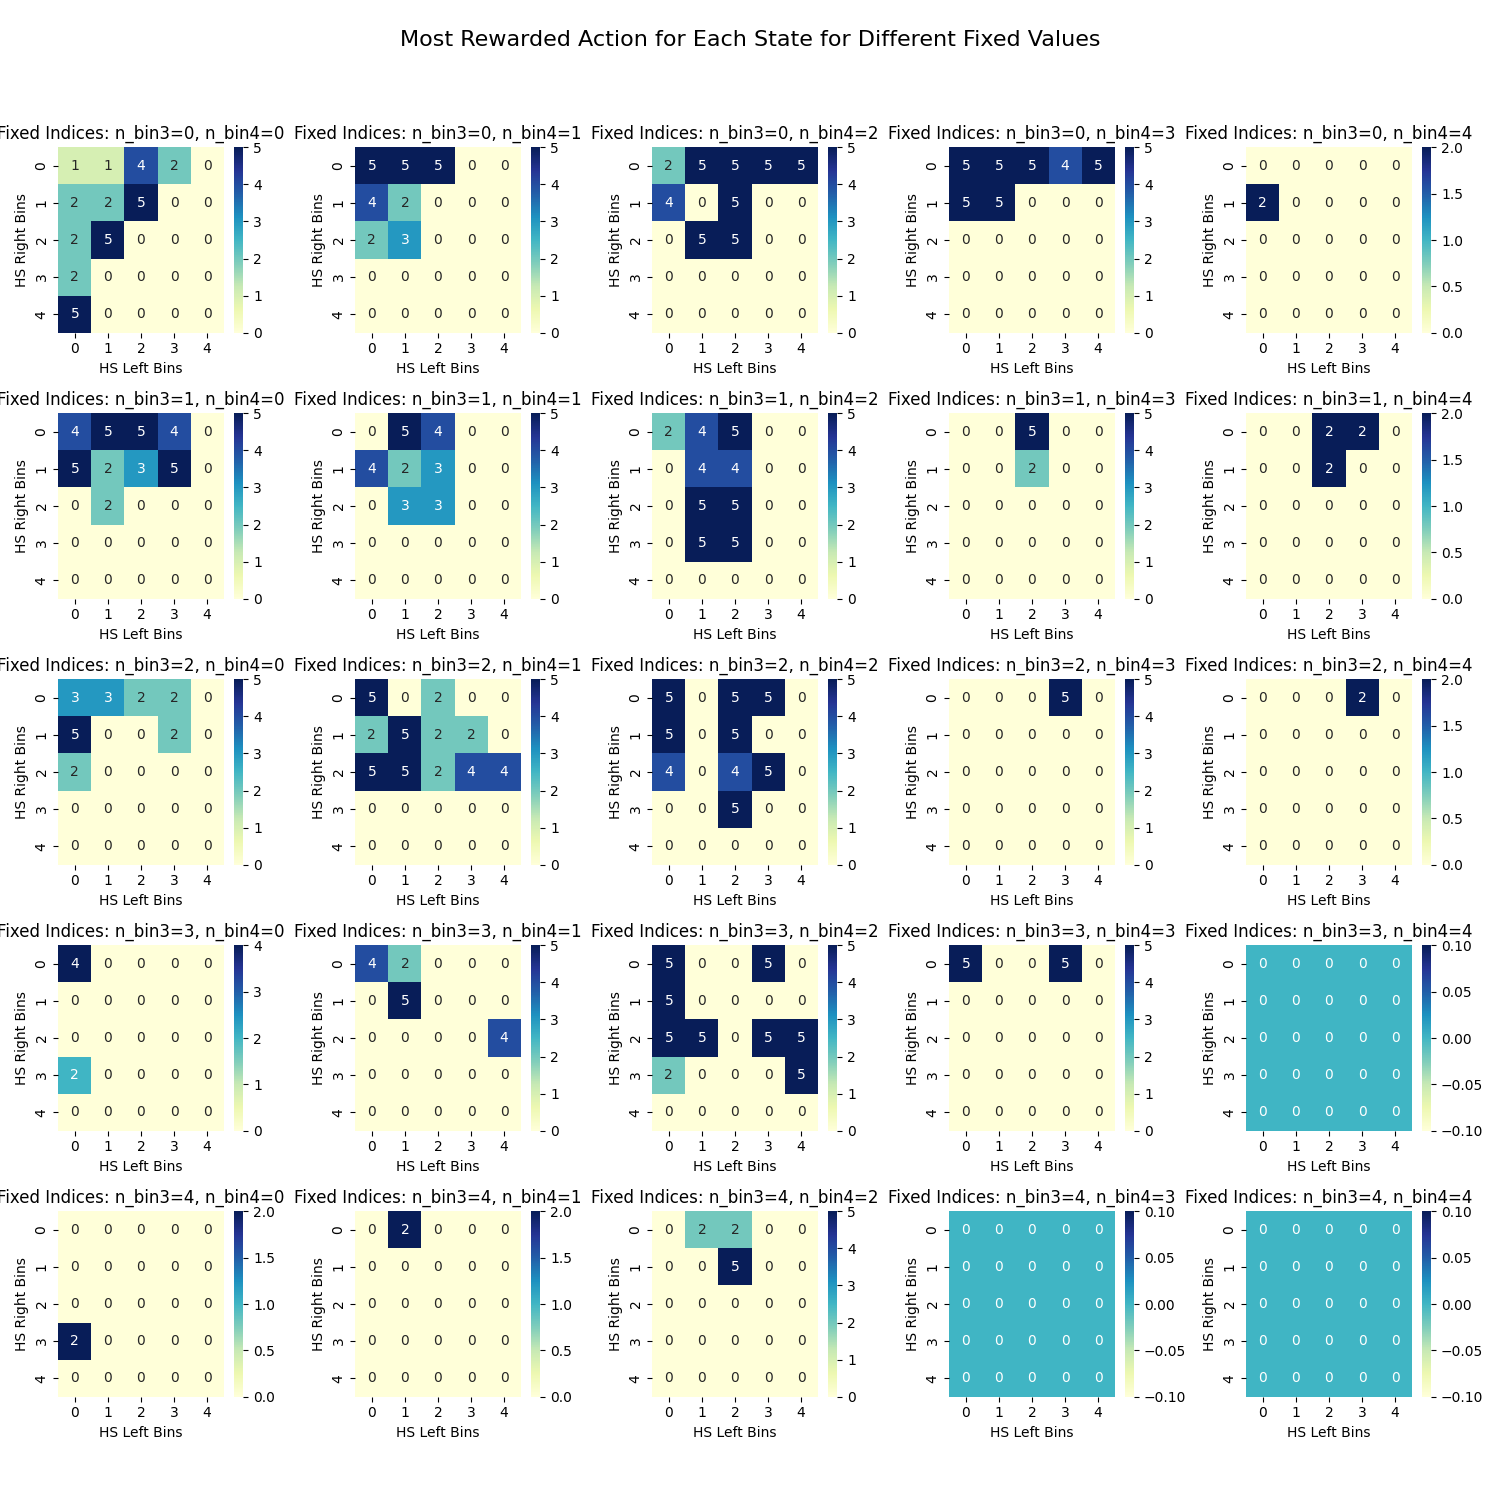
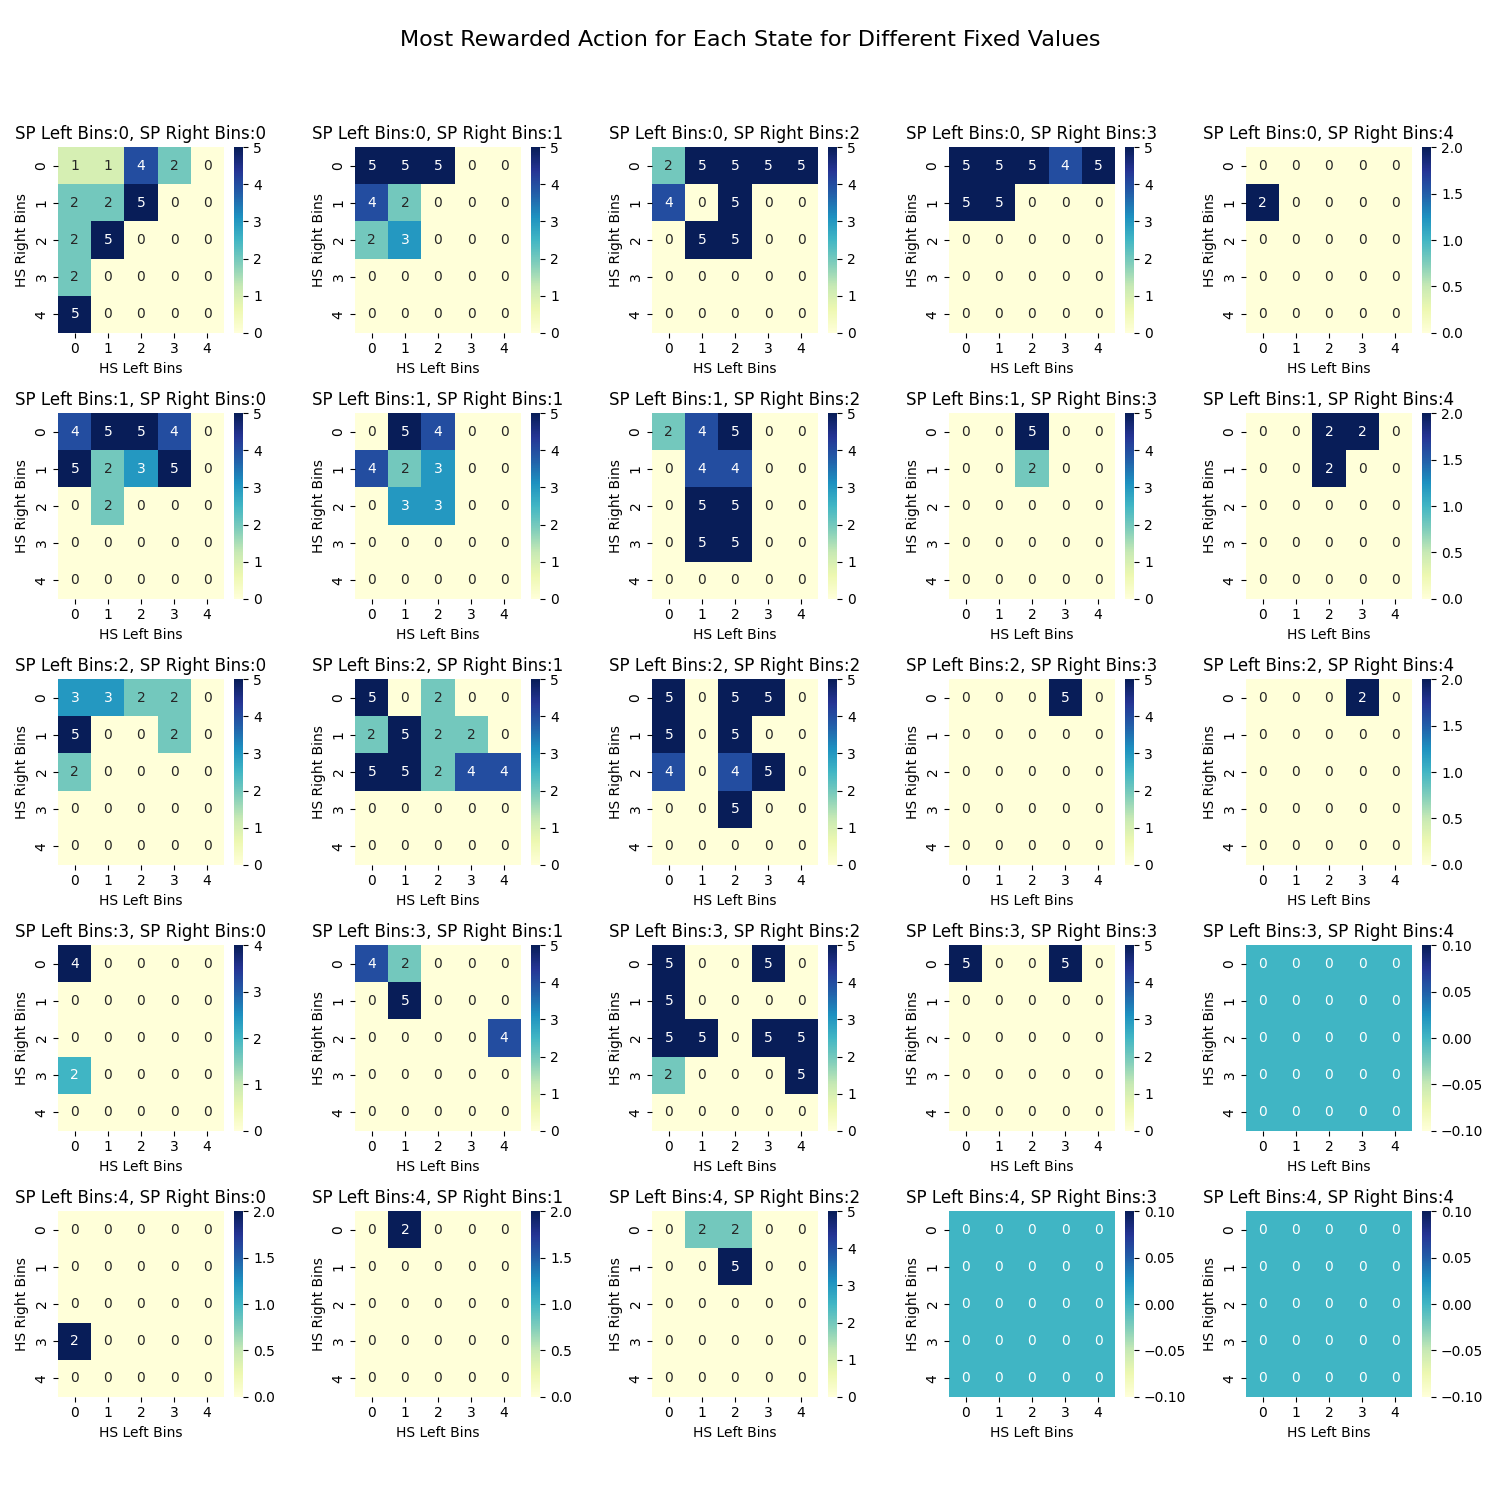
commit

diff --git a/plot_evaluate.py b/plot_evaluate.py
@@ -101,40 +101,13 @@ def plot_singlestate_action(q_values, n_states, n_bin, label_bin, test_folder):
     if q_values.shape[1] == 5:
         plt.xticks(ticks=np.arange(q_values.shape[1]), labels=np.arange(1, q_values.shape[1]+1))
     plt.colorbar(label='Reward Value')
-    plt.savefig(test_folder+"Action "+label_bin+"Reward Heatmap.png")
+    plt.savefig(test_folder+"Action "+label_bin+" Reward Heatmap.png")
 
 
 
 '''Plotting functions for the 4-dimension states'''
-def plot_most_rewarded_action4d(q_values, n_bin1, n_bin2, n_bin3, n_bin4, label_1, label_2, test_folder):
-    # Find the action with the highest Q-value for each state
-    most_rewarded_action = np.argmax(q_values, axis=1)
-    print("Most rewarded action shape: ", most_rewarded_action.shape)
-    # Adjust the annotation for 5 actions case to be 1 to 5
-    if  q_values.shape[1] == 5:
-        most_rewarded_action = most_rewarded_action + 1
-    # Reshape the 4D state space to 2D by fixing two dimensions
-    most_rewarded_action_4d = most_rewarded_action.reshape(n_bin4, n_bin3, n_bin2, n_bin1)
-    if label_1 == "HS Left Bins" and label_2 == "HS Right Bins":
-        most_rewarded_action_2d = most_rewarded_action_4d[0, 0, :, :]
-        # Plot the heatmap (reshaping if the states are grid-like, otherwise just plot)
-        plt.figure(figsize=(10, 8))
-        sns.heatmap(most_rewarded_action_2d, cmap="YlGnBu", annot=True)
-        plt.title("Most Rewarded Action for Each State")
-        plt.xlabel(label_1)
-        plt.ylabel(label_2)
-        plt.savefig(test_folder+'most_rewarded_action_heatmap_HS.png')
-    elif label_1 == "SP Left Bins" and label_2 == "SP Right Bins":
-        most_rewarded_action_2d = most_rewarded_action_4d[:, :, 0, 0]
-        # Plot the heatmap (reshaping if the states are grid-like, otherwise just plot)
-        plt.figure(figsize=(10, 8))
-        sns.heatmap(most_rewarded_action_2d, cmap="YlGnBu", annot=True)
-        plt.title("Most Rewarded Action for Each State")
-        plt.xlabel(label_1)
-        plt.ylabel(label_2)
-        plt.savefig(test_folder+'most_rewarded_action_heatmap_SP.png')
-
-def plot_most_rewarded_action_4d_subplots(q_values, n_bin1, n_bin2, n_bin3, n_bin4, label_bin1, label_bin2, test_folder):
+def plot_most_rewarded_action_4d_subplots(q_values, n_bin1, n_bin2, n_bin3, n_bin4, 
+                                          label_bin1, label_bin2, label_bin3, label_bin4, test_folder):
     # Find the action with the highest Q-value for each state
     most_rewarded_action = np.argmax(q_values, axis=1)
     print("Most rewarded action shape: ", most_rewarded_action.shape)
@@ -150,7 +123,7 @@ def plot_most_rewarded_action_4d_subplots(q_values, n_bin1, n_bin2, n_bin3, n_bi
         for j in range(n_bin4):
             ax = axes[i, j]
             sns.heatmap(most_rewarded_action_4d[j, i, :, :], cmap="YlGnBu", annot=True, ax=ax)
-            ax.set_title(f"Fixed Indices: n_bin3={i}, n_bin4={j}")
+            ax.set_title(f"{label_bin3}:{i}, {label_bin4}:{j}")
             ax.set_xlabel(label_bin1)
             ax.set_ylabel(label_bin2)
     plt.tight_layout(rect=[0, 0.03, 1, 0.95])
@@ -173,6 +146,7 @@ def plot_action_reward_subplots4d(q_values, n_bin1, n_bin2, n_bin3, n_bin4, n_ac
                     # Calculate the state index based on the bin locations of all 4 dimensions
                     state_index = (fixed_bin * n_bin3 * n_bin2 * n_bin1) + (fixed_bin * n_bin2 * n_bin1) + (bin2 * n_bin1) + bin1
                     reward_grid[bin2, bin1] = q_values[state_index, action_index]
+                    print("State index: ", state_index)
             # Plotting the heatmap using imshow in the appropriate subplot
             # ax = axes[action_index]
             ax = axes[action_index+1 if n_actions==5 else action_index]  # Shift the index for 5 actions        
@@ -202,6 +176,7 @@ def plot_action_reward_subplots4d(q_values, n_bin1, n_bin2, n_bin3, n_bin4, n_ac
                     # Calculate the state index based on the bin locations of all 4 dimensions
                     state_index = (bin4 * n_bin3 * n_bin2 * n_bin1) + (bin3 * n_bin2 * n_bin1) + (fixed_bin * n_bin1) + fixed_bin
                     reward_grid[bin4, bin3] = q_values[state_index, action_index]
+                    print("State index: ", state_index)
             # Plotting the heatmap using imshow in the appropriate subplot
             # ax = axes[action_index]
             ax = axes[action_index+1 if n_actions==5 else action_index]  # Shift the index for 5 actions        
@@ -221,3 +196,59 @@ def plot_action_reward_subplots4d(q_values, n_bin1, n_bin2, n_bin3, n_bin4, n_ac
         fig.colorbar(img, ax=axes, orientation='vertical', fraction=0.02, pad=0.04)
         plt.tight_layout(rect=[0, 0, 0.88, 1])
         plt.savefig(test_folder+"action_reward_subplots_SP.png")       
+
+def plot_singlestate_action4d(q_values, n_bin1, n_bin2, n_bin3, n_bin4, label, test_folder):
+    n_actions = q_values.shape[1]
+    # Define fixed values for bin3 and bin4
+    fixed_bin = 0 
+    if label == "HS Left Bins":
+        # Initialize a grid to store the aggregated reward per (bin1, action)
+        reward_grid = np.zeros((n_bin1, n_actions))
+        # Populate the reward grid by aggregating over bin2 for each bin1 and action
+        for bin1 in range(n_bin1):
+            # Calculate the state index based on fixed bin3 and bin4, and the current bin1 and bin2
+            state_index = (fixed_bin * n_bin3 * n_bin2 * n_bin1) + (fixed_bin * n_bin2 * n_bin1) + (fixed_bin * n_bin1) + bin1
+            # Sum rewards across bin2 for each bin1 and action
+            reward_grid[bin1, :] += q_values[state_index, :]
+            print("State index: ", state_index)
+    elif label == "HS Right Bins":
+        # Initialize a grid to store the aggregated reward per (bin2, action)
+        reward_grid = np.zeros((n_bin2, n_actions))
+        # Populate the reward grid by aggregating over bin1 for each bin2 and action
+        for bin2 in range(n_bin2):
+            # Calculate the state index based on fixed bin3 and bin4, and the current bin1 and bin2
+            state_index = (fixed_bin * n_bin3 * n_bin2 * n_bin1) + (fixed_bin * n_bin2 * n_bin1) + (bin2 * (n_bin1-1)) + n_bin1
+            # Sum rewards across bin1 for each bin2 and action
+            reward_grid[bin2, :] += q_values[state_index, :]
+            print("State index: ", state_index)
+    elif label == "SP Left Bins":
+        # Initialize a grid to store the aggregated reward per (bin3, action)
+        reward_grid = np.zeros((n_bin3, n_actions))
+        # Populate the reward grid by aggregating over bin4 for each bin3 and action
+        for bin3 in range(n_bin3):
+            # Calculate the state index based on fixed bin1 and bin2, and the current bin3 and bin4
+            state_index = (fixed_bin * n_bin3 * n_bin2 * (n_bin1-1)) + (bin3 * n_bin2 * (n_bin1-1)) + (n_bin2 * (n_bin1-1)) + n_bin1
+            # Sum rewards across bin4 for each bin3 and action
+            reward_grid[bin3, :] += q_values[state_index, :]
+            print("State index: ", state_index)
+    elif label == "SP Right Bins":
+        # Initialize a grid to store the aggregated reward per (bin4, action)
+        reward_grid = np.zeros((n_bin4, n_actions))
+        # Populate the reward grid by aggregating over bin3 for each bin4 and action
+        for bin4 in range(n_bin4):
+            # Calculate the state index based on fixed bin1 and bin2, and the current bin3 and bin4
+            state_index = (bin4 * n_bin3 * n_bin2 * (n_bin1-1)) + (n_bin3 * n_bin2 * (n_bin1-1)) + (n_bin2 * (n_bin1-1)) + n_bin1
+            # Sum rewards across bin3 for each bin4 and action
+            reward_grid[bin4, :] += q_values[state_index, :]
+            print("State index: ", state_index)
+    # Plot the aggregated reward heatmap
+    plt.figure(figsize=(10, 8))
+    plt.imshow(reward_grid, cmap='viridis', aspect='auto')
+    plt.title(f"Reward Heatmap: {label} vs. Action", fontsize=16)
+    plt.xlabel("Actions", fontsize=14)
+    plt.ylabel(label, fontsize=14)
+    if n_actions == 5:
+        plt.xticks(ticks=np.arange(n_actions), labels=np.arange(1, n_actions + 1))
+    plt.colorbar(label='Reward Value')
+    plt.savefig(test_folder + f"Action {label} Reward Heatmap.png")
+    plt.close()

diff --git a/train_AG.py b/train_AG.py
@@ -205,16 +205,15 @@ if mode == 'evaluate':
     # save the q_values as a CSV file
     np.savetxt(test_folder+'q_values_maxent_direction.csv', q_values, delimiter=',')
     # plot the most rewarded action
-    plot_most_rewarded_action_4d_subplots(q_values, n_bin1, n_bin2, n_bin3, n_bin4, label_bin1, label_bin2, test_folder)
-    plot_most_rewarded_action4d(q_values, n_bin1, n_bin2, n_bin3, n_bin4, label_bin1, label_bin2, test_folder)
-    plot_most_rewarded_action4d(q_values, n_bin1, n_bin2, n_bin3, n_bin4, label_bin3, label_bin4, test_folder)
+    plot_most_rewarded_action_4d_subplots(q_values, n_bin1, n_bin2, n_bin3, n_bin4, 
+                                          label_bin1, label_bin2, label_bin3, label_bin4, test_folder)
     # plot the Q-table
     plot_q_table(q_values, test_folder)
     # plot the action-reward subplots
     plot_action_reward_subplots4d(q_values, n_bin1, n_bin2, n_bin3, n_bin4, n_actions, label_bin1, label_bin2, test_folder)
     plot_action_reward_subplots4d(q_values, n_bin1, n_bin2, n_bin3, n_bin4, n_actions, label_bin3, label_bin4, test_folder)
     # plot the single state action
-    plot_singlestate_action(q_values, n_states, n_bin1, label_bin1, test_folder)
-    plot_singlestate_action(q_values, n_states, n_bin2, label_bin2, test_folder)
-    plot_singlestate_action(q_values, n_states, n_bin3, label_bin3, test_folder)
-    plot_singlestate_action(q_values, n_states, n_bin4, label_bin4, test_folder)
+    plot_singlestate_action4d(q_values, n_bin1, n_bin2, n_bin3, n_bin4, label_bin1, test_folder)
+    plot_singlestate_action4d(q_values, n_bin1, n_bin2, n_bin3, n_bin4, label_bin2, test_folder)
+    plot_singlestate_action4d(q_values, n_bin1, n_bin2, n_bin3, n_bin4, label_bin3, test_folder)
+    plot_singlestate_action4d(q_values, n_bin1, n_bin2, n_bin3, n_bin4, label_bin4, test_folder)
